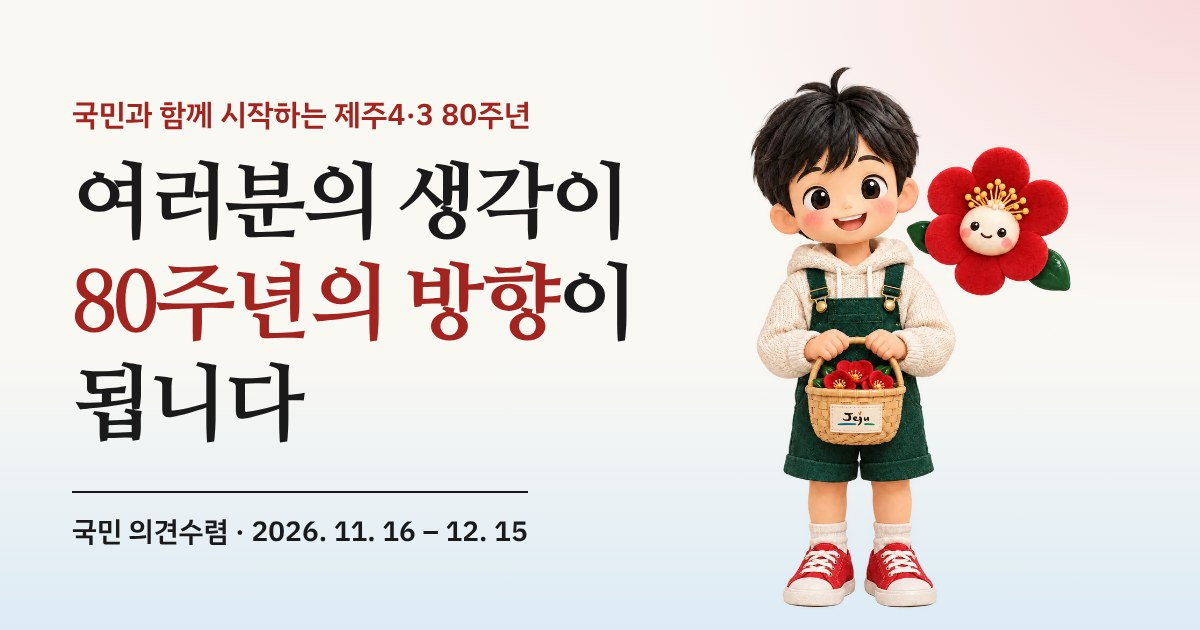
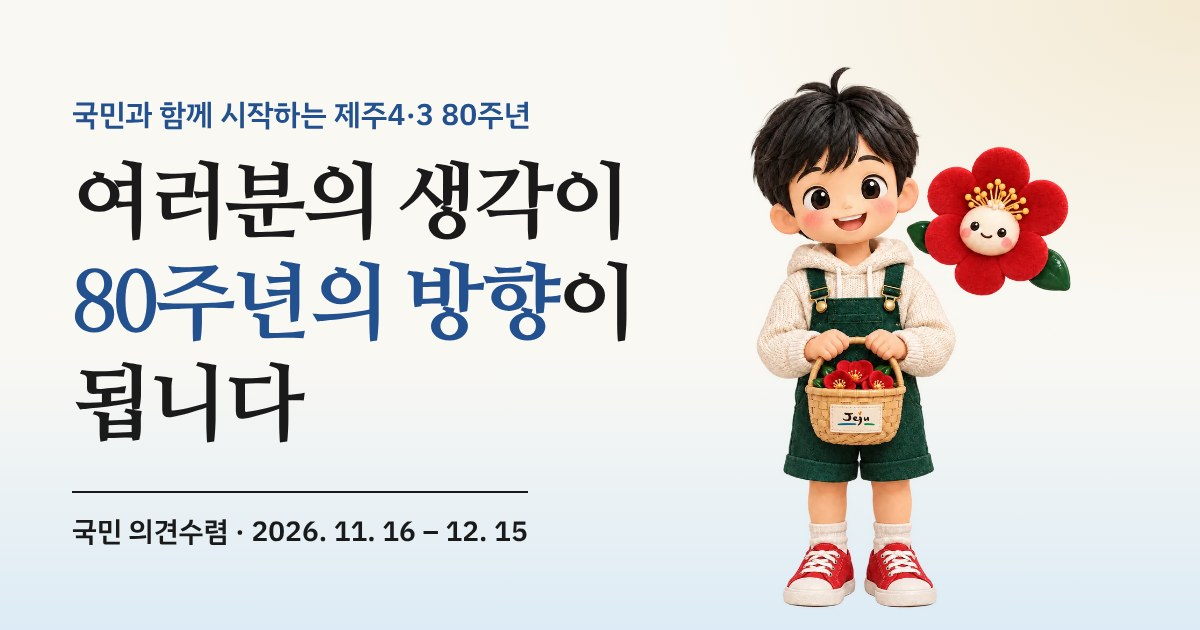
Recolor without red: blue, navy and sand palette
Claude-Session: https://claude.ai/code/session_01M2cVNcTtpecnMggWA51WdT

Changed region(s): [[0.0617, 0.3921, 0.4625, 0.5429], [0.0617, 0.1508, 0.4625, 0.2111]]

diff --git a/index.html b/index.html
@@ -16,12 +16,12 @@
 <link rel="preconnect" href="https://fonts.gstatic.com" crossorigin>
 <link href="https://fonts.googleapis.com/css2?family=Nanum+Myeongjo:wght@700;800&family=IBM+Plex+Sans+KR:wght@400;500;600;700&display=swap" rel="stylesheet">
 <style>
-/* 모바일 우선. 한지 바탕 + 분홍·하늘 수채 번짐 + 명조 제목 + 홍실. 히어로 → 취지 → 알아보기(겨울·봄 풍경, 넘겨 보는 카드, 족자 연표) → 설문 → 반영 과정 → 캐릭터 → 질문 → 맺음 */
+/* 모바일 우선. 한지 바탕 + 모래빛·하늘 수채 번짐 + 명조 제목 + 홍실. 히어로 → 취지 → 알아보기(겨울·봄 풍경, 넘겨 보는 카드, 족자 연표) → 설문 → 반영 과정 → 캐릭터 → 질문 → 맺음 */
 :root{
   color-scheme:light;
   --bg:#FAF8F3; --surface:#FFFEFB; --ink:#1E2433; --navy:#1F3058; --muted:#5A5E68; --line:#E4DFD5;
-  --red:#A51C30; --red-deep:#861525; --red-tint:#FAE9EA; --red-ink:#FFFFFF; --thread:#B3202F;
-  --pink:#F8D9DB; --blue:#DCEBF5; --blue-deep:#C9DFEE; --gold:#E0A51A;
+  --red:#23508F; --red-deep:#1A3D70; --red-tint:#E6EEF8; --red-ink:#FFFFFF; --thread:#9A7B2E;
+  --pink:#F3E9D2; --blue:#DCEBF5; --blue-deep:#C9DFEE; --gold:#E0A51A;
   --shadow:0 10px 28px rgba(31,48,88,.10);
   --f-display:'Nanum Myeongjo','Noto Serif KR','Apple SD Gothic Neo',serif;
   --f-body:'IBM Plex Sans KR','Noto Sans KR','Apple SD Gothic Neo','Malgun Gothic',sans-serif;
@@ -45,7 +45,7 @@ a{color:inherit}
 .kicker{display:flex;align-items:center;gap:8px;font-family:var(--f-display);font-weight:800;font-size:.98rem;color:var(--red);letter-spacing:.04em}
 .kicker::before{content:"";width:4px;height:1em;background:var(--red);border-radius:1px;flex:0 0 auto}
 .btn{display:inline-flex;align-items:center;justify-content:center;gap:8px;min-height:52px;padding:0 26px;border-radius:999px;border:0;font:700 1.02rem/1.2 var(--f-body);cursor:pointer;text-decoration:none;text-align:center}
-.btn-red{background:var(--red);color:var(--red-ink);box-shadow:0 6px 16px rgba(165,28,48,.22)}
+.btn-red{background:var(--red);color:var(--red-ink);box-shadow:0 6px 16px rgba(35,80,143,.22)}
 .btn-line{background:rgba(255,255,255,.6);color:var(--ink);border:1.5px solid var(--navy)}
 .btn-ghost{background:transparent;color:var(--muted);padding-inline:14px}
 @media (hover:hover){.btn-red:hover{background:var(--red-deep)}.btn-line:hover{background:var(--navy);color:#fff}.btn-ghost:hover{color:var(--ink)}}
@@ -75,10 +75,10 @@ a{color:inherit}
 
 /* hero */
 .hero{position:relative;overflow:hidden;padding-block:28px 0;
-  background:radial-gradient(90% 46% at 100% 0%,var(--pink) 0,rgba(248,217,219,.45) 45%,transparent 75%),linear-gradient(180deg,transparent 52%,var(--blue) 100%)}
+  background:radial-gradient(90% 46% at 100% 0%,var(--pink) 0,rgba(243,233,210,.45) 45%,transparent 75%),linear-gradient(180deg,transparent 52%,var(--blue) 100%)}
 .hero .wrap{position:relative;display:grid;gap:8px}
 .thread{position:absolute;right:-46px;top:-40px;width:150px;height:auto;pointer-events:none;z-index:0}
-.thread path{fill:none;stroke:var(--thread);stroke-width:1.6;stroke-linecap:round}
+.thread path{fill:none;stroke:var(--thread);stroke-width:1.4;opacity:.8;stroke-linecap:round}
 .hero-copy{position:relative;z-index:1}
 .status{display:inline-flex;align-items:center;gap:8px;font-size:.8rem;font-weight:700;background:rgba(255,255,255,.75);border:1px solid var(--line);border-radius:999px;padding:4px 13px 4px 10px;margin-bottom:18px}
 .status i{width:8px;height:8px;border-radius:50%;background:var(--gold)}
@@ -88,7 +88,7 @@ a{color:inherit}
 .hero h1{font-size:clamp(2.15rem,1.3rem + 4.4vw,4.2rem);line-height:1.22;margin-top:10px;letter-spacing:-.03em}
 .hero h1 em{font-style:normal;color:var(--red)}
 .hero .sub{font-family:var(--f-display);font-weight:700;font-size:clamp(.98rem,.9rem + .5vw,1.25rem);color:#4B4F5C;margin-top:12px}
-.hero .rule{width:44px;height:1px;background:var(--red);margin:20px 0 14px}
+.hero .rule{width:44px;height:1.5px;background:var(--thread);margin:20px 0 14px}
 .hero .date{font-family:var(--f-display);font-weight:800;font-size:clamp(1.3rem,1.1rem + 1.2vw,1.9rem);color:var(--red);font-variant-numeric:tabular-nums;letter-spacing:0}
 .hero .who{font-size:.95rem;color:var(--muted);margin-top:2px}
 .hero .acts{display:grid;gap:10px;margin-top:22px}
@@ -170,14 +170,14 @@ a{color:inherit}
 }
 
 /* survey */
-.survey{background:radial-gradient(80% 30% at 0% 0%,rgba(248,217,219,.7),transparent 70%),linear-gradient(180deg,var(--bg),var(--blue) 30%,var(--blue) 80%,var(--bg))}
+.survey{background:radial-gradient(80% 30% at 0% 0%,rgba(243,233,210,.7),transparent 70%),linear-gradient(180deg,var(--bg),var(--blue) 30%,var(--blue) 80%,var(--bg))}
 .sv-grid{display:grid;gap:20px;align-items:start}
 .sv-side{display:none}
 .sv-card{background:var(--surface);border-radius:22px;box-shadow:var(--shadow);padding:20px 16px 18px;min-width:0}
 .sv-top{display:flex;align-items:center;gap:14px;margin-bottom:18px}
 .bloom{width:54px;height:54px;flex:0 0 auto}
 .bloom .p{fill:var(--surface);stroke:#C9BFB2;stroke-width:1.2;transition:fill .35s ease,stroke .35s ease}
-.bloom .p.on{fill:#D5222F;stroke:var(--red-deep)}
+.bloom .p.on{fill:var(--red);stroke:var(--red-deep)}
 .bloom .c{fill:#ECE7DB;transition:fill .35s ease}
 .bloom .c.on{fill:var(--gold)}
 .bloom .c2{fill:transparent;transition:fill .35s ease}
@@ -214,7 +214,7 @@ textarea:focus,input[type=tel]:focus{border-color:var(--red);outline:0;box-shado
 .badge-box label.lb{font-weight:700;font-size:.88rem}
 .agree{display:flex;gap:10px;align-items:flex-start;font-size:.86rem;color:var(--muted)}
 .agree input{width:20px;height:20px;margin-top:3px;flex:0 0 auto;accent-color:var(--red)}
-.err{color:var(--red);font-size:.9rem;font-weight:700;margin-top:12px}
+.err{color:#8A4B00;font-size:.9rem;font-weight:700;margin-top:12px}
 .sv-nav{display:flex;justify-content:space-between;gap:10px;margin-top:22px;padding-top:16px;border-top:1px solid var(--line)}
 .sv-nav .btn-red{margin-left:auto;min-width:138px}
 .done{display:grid;gap:14px;justify-items:center;text-align:center;padding:6px 0}
@@ -255,7 +255,7 @@ textarea:focus,input[type=tel]:focus{border-color:var(--red);outline:0;box-shado
 @media (min-width:760px){.path{grid-template-columns:repeat(4,1fr);gap:14px}.idea{display:flex;align-items:center;gap:14px}}
 
 /* characters */
-.chars{background:linear-gradient(180deg,transparent,rgba(248,217,219,.45) 40%,transparent)}
+.chars{background:linear-gradient(180deg,transparent,rgba(243,233,210,.45) 40%,transparent)}
 .char-grid{display:grid;gap:12px}
 .char{display:grid;grid-template-columns:92px 1fr;gap:14px;align-items:center;background:var(--surface);border:1px solid var(--line);border-radius:18px;padding:14px 16px}
 .char img{width:92px;height:92px;object-fit:contain}
@@ -272,7 +272,7 @@ textarea:focus,input[type=tel]:focus{border-color:var(--red);outline:0;box-shado
 .faq p{padding-bottom:16px;color:var(--muted)}
 
 /* closing */
-.closing{position:relative;overflow:hidden;padding-block:56px 64px;text-align:center;background:radial-gradient(70% 50% at 0% 0%,rgba(248,217,219,.8),transparent 70%),linear-gradient(180deg,transparent 40%,var(--blue) 100%)}
+.closing{position:relative;overflow:hidden;padding-block:56px 64px;text-align:center;background:radial-gradient(70% 50% at 0% 0%,rgba(243,233,210,.8),transparent 70%),linear-gradient(180deg,transparent 40%,var(--blue) 100%)}
 .closing .wrap{position:relative;z-index:1}
 .closing h2{font-size:clamp(1.7rem,1.2rem + 2.4vw,2.9rem);line-height:1.35}
 .closing h2 em{font-style:normal;color:var(--red)}
